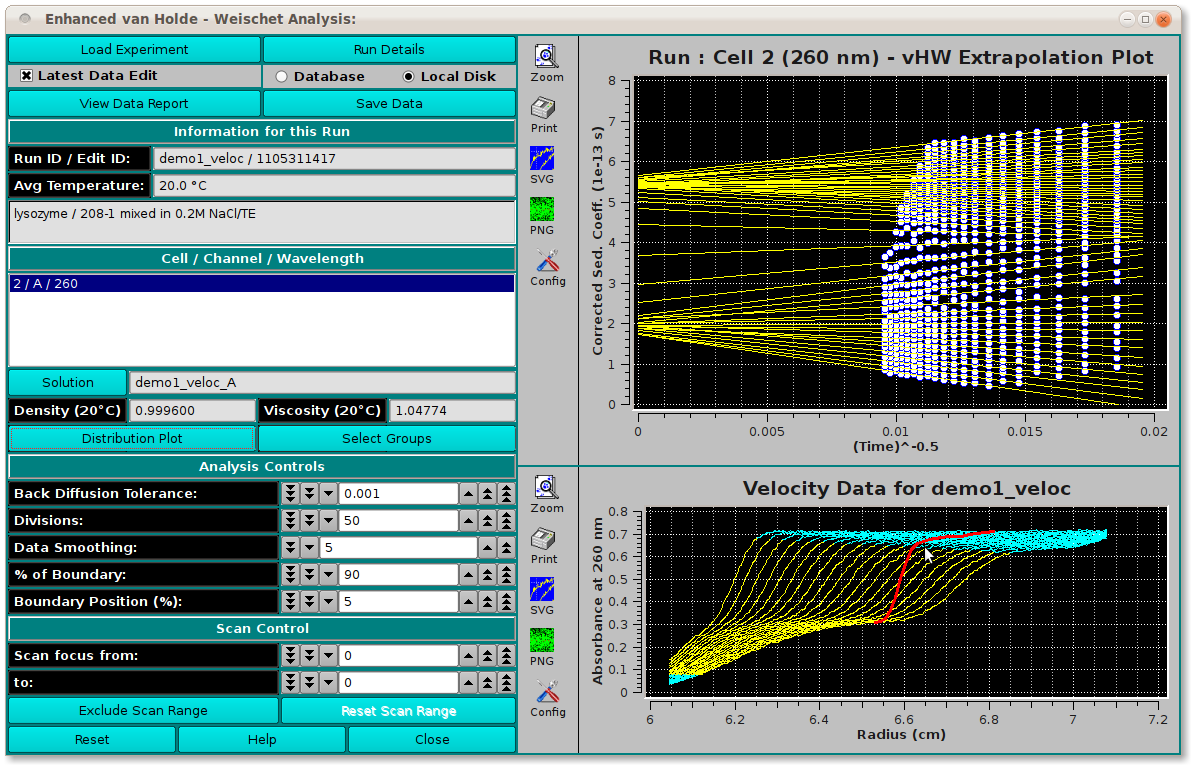
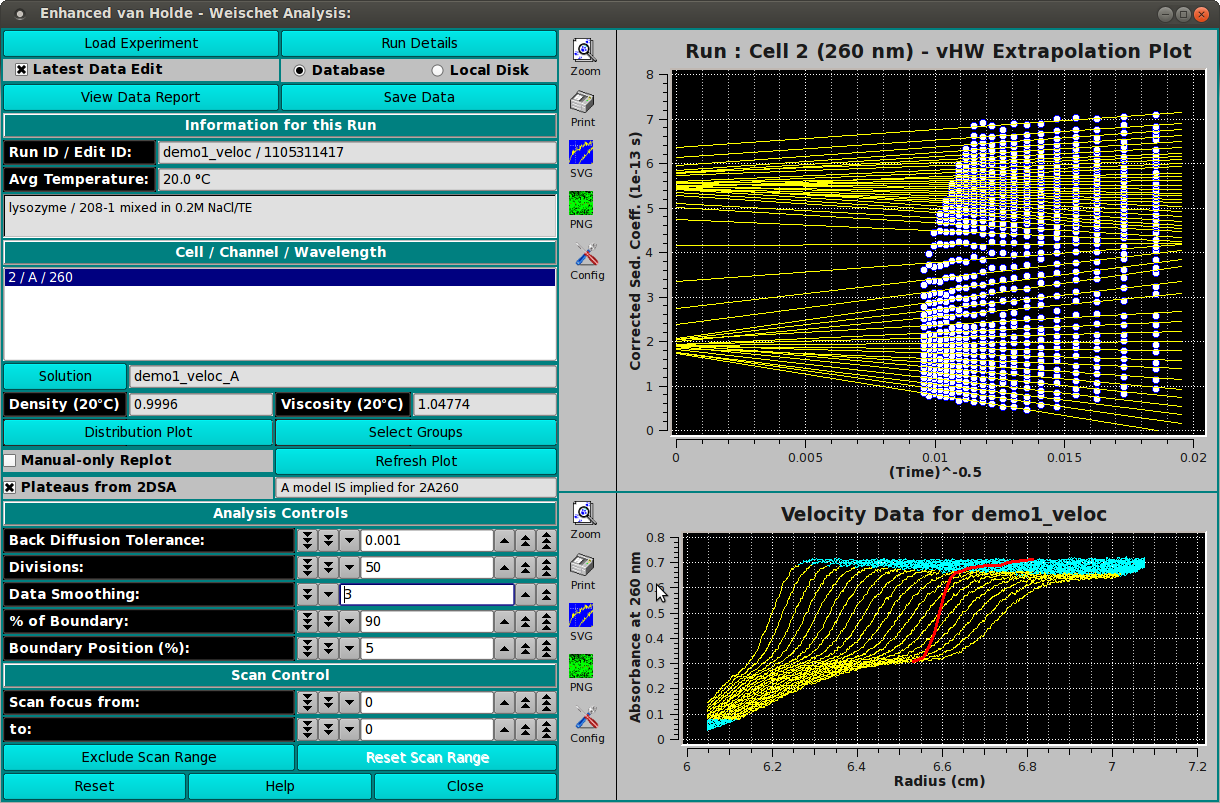
additional vHW refinements and help doc updates
git-svn-id: svn://bcf2.uthscsa.edu/ultrascan3/trunk@1410 0b344138-67e3-44e0-be2b-e1ba3e4701c6

diff --git a/programs/us_vhw_enhanced/us_vhw_enhanced.cpp b/programs/us_vhw_enhanced/us_vhw_enhanced.cpp
@@ -43,7 +43,7 @@ US_vHW_Enhanced::US_vHW_Enhanced() : US_AnalysisBase2()
    us_checkbox( tr( "Plateaus from 2DSA" ), ck_modelpl, true );
    pb_replot     = us_pushbutton( tr( "Refresh Plot" ) );
    pb_replot->setEnabled( false );
-   us_checkbox( tr( "Manual-only Replot" ), ck_manrepl, true );
+   us_checkbox( tr( "Manual-only Replot" ), ck_manrepl, false );
    le_model      = us_lineedit( tr( "No model for triple" ), -1, true );
 
    connect( pb_dstrpl,  SIGNAL( clicked()       ),
@@ -244,11 +244,12 @@ DbgLv(2) << "DP:TM:00: " << QTime::currentTime().toString("hh:mm:ss:zzzz");
    data_plot2->detachItems();
    data_plot2->setAxisAutoScale( QwtPlot::yLeft );
    data_plot2->setAxisAutoScale( QwtPlot::xBottom );
+   scanCount  = d->scanData.size();
+   valueCount = d->x.size();
+   boundPct   = ct_boundaryPercent->value() / 100.0;
+   positPct   = ct_boundaryPos    ->value() / 100.0;
+   baseline   = calc_baseline();
 
-   // let AnalysisBase do the lower plot
-   US_AnalysisBase2::data_plot();
-
-   // handle upper (vHW Extrapolation) plot, here
    QList< double >  scpds;
    double  cconc;
    double  pconc;
@@ -259,11 +260,6 @@ DbgLv(2) << "DP:TM:00: " << QTime::currentTime().toString("hh:mm:ss:zzzz");
    double  oterm;
    int     nskip = 0;
    cpds.clear();
-   scanCount  = d->scanData.size();
-   divsCount  = qRound( ct_division->value() );
-   totalCount = scanCount * divsCount;
-   valueCount = d->x.size();
-   scanCount  = d->scanData.size();
    divsCount  = qRound( ct_division->value() );
    totalCount = scanCount * divsCount;
    QVector< double > pxvec( scanCount  );
@@ -271,9 +267,6 @@ DbgLv(2) << "DP:TM:00: " << QTime::currentTime().toString("hh:mm:ss:zzzz");
    double* ptx   = pxvec.data();   // t,log(p) points
    double* pty   = pyvec.data();
    divfac     = 1.0 / (double)divsCount;
-   boundPct   = ct_boundaryPercent->value() / 100.0;
-   positPct   = ct_boundaryPos    ->value() / 100.0;
-   baseline   = calc_baseline();
    correc     = solution.s20w_correction * 1.0e13;
 	C0         = 0.0;
 	Swavg      = 0.0;
@@ -303,8 +296,10 @@ DbgLv(1) << "  scanCount  divsCount" << scanCount << divsCount;
       fitted_plateaus();
    }
 
-   valueCount = d->x.size();
+   // Let AnalysisBase do the lower plot
+   US_AnalysisBase2::data_plot();
 
+   // Then set up to handle the upper (vHW Extrapolation) plot.
    // Calculate the division-1 sedimentation coefficient intercept and,
    //  from that, the back diffusion coefficient
 
@@ -1742,9 +1737,20 @@ void US_vHW_Enhanced::update( int row )
    haveZone   = false;
    d          = &dataList[ row ];
 
-   forcePlot  = true;
+   // Do some calculations handled in AnalysisBase, but needed here
+   //  so that model plateau calculations work
+   time_correction    = US_Math2::time_correction( dataList );
+   solution.density   = le_density  ->text().toDouble();
+   solution.viscosity = le_viscosity->text().toDouble();
+   solution.vbar20    = le_vbar     ->text().toDouble();
+   double avgTemp     = d->average_temperature();
+   solution.vbar      = US_Math2::calcCommonVbar( solution_rec, avgTemp );
+   US_Math2::data_correction( avgTemp, solution );
+
+   // Do normal analysis triple updating, but suppress plotting for now
+   dataLoaded = false;
    US_AnalysisBase2::update( row );
-   forcePlot  = false;
+   dataLoaded = true;
 DbgLv(1) << " update: vbar" << vbar;
 
    if ( vbar <= 0.0 )
@@ -1756,11 +1762,17 @@ DbgLv(1) << " update: vbar" << vbar;
       return;
    }
 
+   // After triple update has completed, we can proceed with plotting
+   forcePlot  = true;
+   data_plot();
+   forcePlot  = false;
+
+   // Report on whether a model is available
    ti_noise      = tinoises[ row ];
    ri_noise      = rinoises[ row ];
-   QString tripl = QString( triples.at( row ) ).replace( " / ", "" );
    int n_ti_noi  = ti_noise.values.size();
    int n_ri_noi  = ri_noise.values.size();
+   QString tripl = QString( triples.at( row ) ).replace( " / ", "" );
    QString modelGUID;
 
    if ( n_ti_noi > 0 )

diff --git a/gui/us_analysis_base2.cpp b/gui/us_analysis_base2.cpp
@@ -575,7 +575,7 @@ void US_AnalysisBase2::boundary_pct( double percent )
    ct_boundaryPos->disconnect();
    ct_boundaryPos->setMaxValue( 100.0 - percent );
 
-   ct_boundaryPos->setValue( ( 100.0 - percent ) / 2.0 );
+   //ct_boundaryPos->setValue( ( 100.0 - percent ) / 2.0 );
 
    connect( ct_boundaryPos, SIGNAL( valueChanged( double ) ),
                             SLOT  ( boundary_pos( double ) ) );
